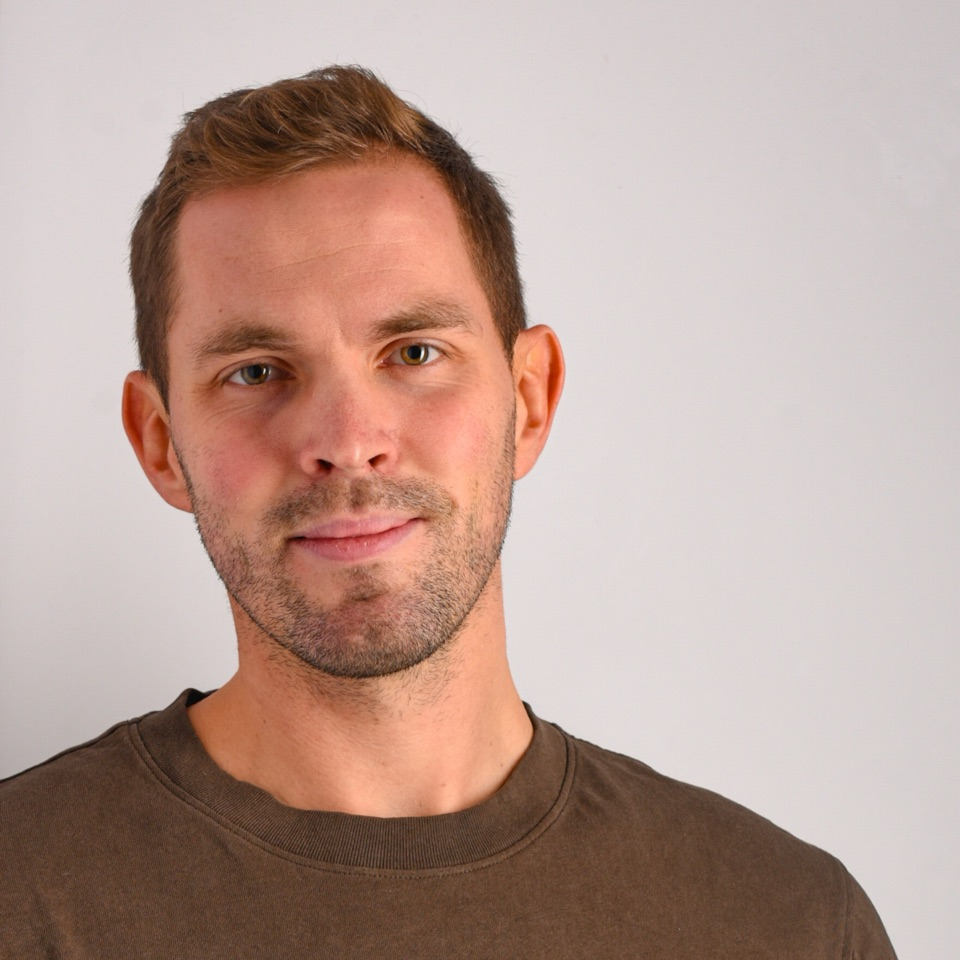
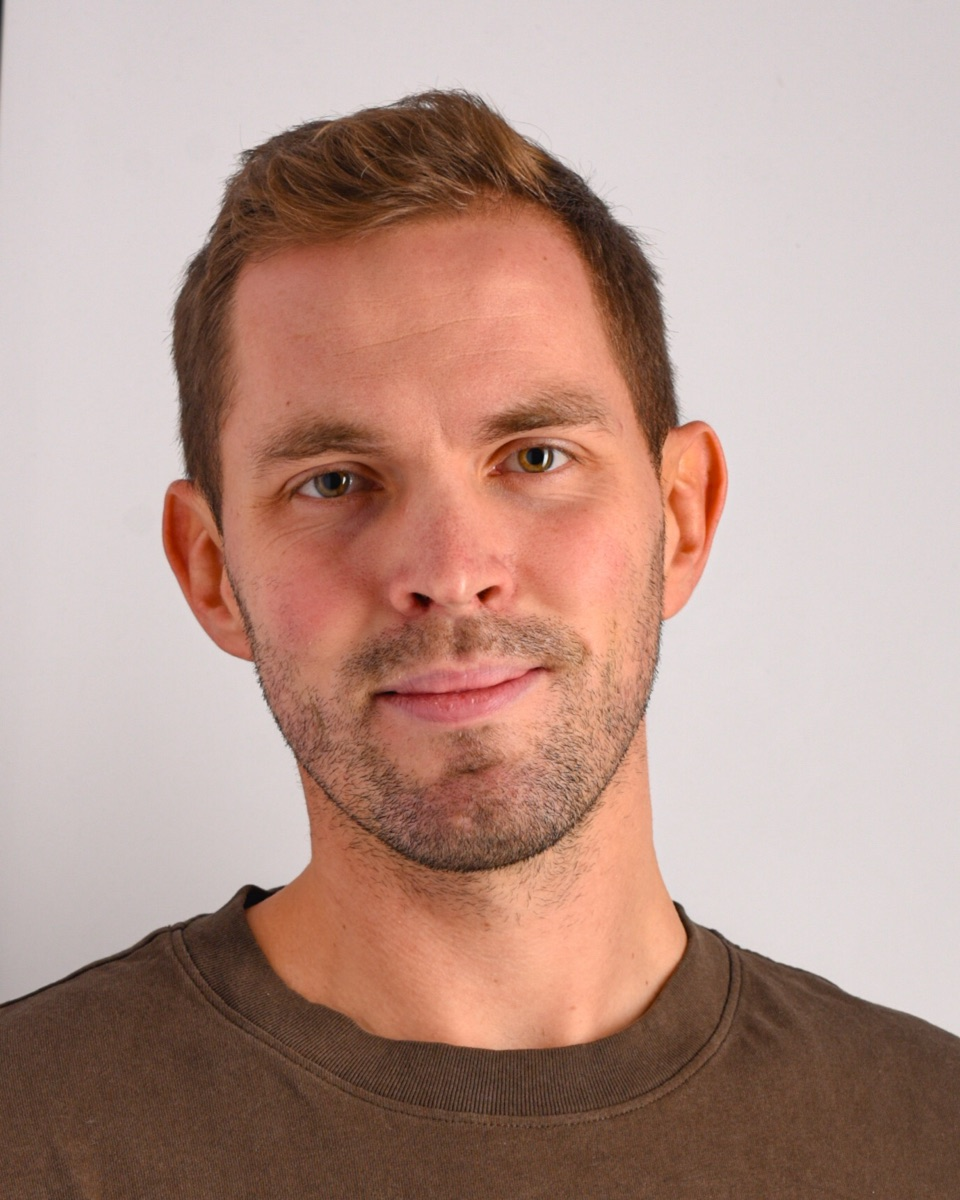
About: portrait photo in 4:5 next to the facts, aligned with the heading

diff --git a/app/routes/($lang).about.tsx b/app/routes/($lang).about.tsx
@@ -314,14 +314,14 @@ function AboutIntro({ lang }: { lang: Lang }) {
         {t.hero.text}
       </PageHero>
       <section className="bg-navy-lighter">
-        <div className="mx-auto grid max-w-6xl items-center gap-12 px-4 py-16 sm:px-6 sm:py-24 md:grid-cols-[18rem_1fr]">
+        <div className="mx-auto grid max-w-6xl items-start gap-12 px-4 py-16 sm:px-6 sm:py-24 md:grid-cols-[20rem_1fr]">
           {/* from the same shoot as the home page portrait, but a different picture */}
           <img
             src="/hannes-tshirt.jpg"
             width={960}
-            height={960}
+            height={1200}
             alt="Hannes Schaletzky"
-            className="mx-auto aspect-square w-56 rounded-3xl object-cover md:w-72"
+            className="mx-auto aspect-[4/5] w-56 rounded-3xl object-cover md:w-full"
           />
           <div>
             <SectionHeading eyebrow={t.glance}>
